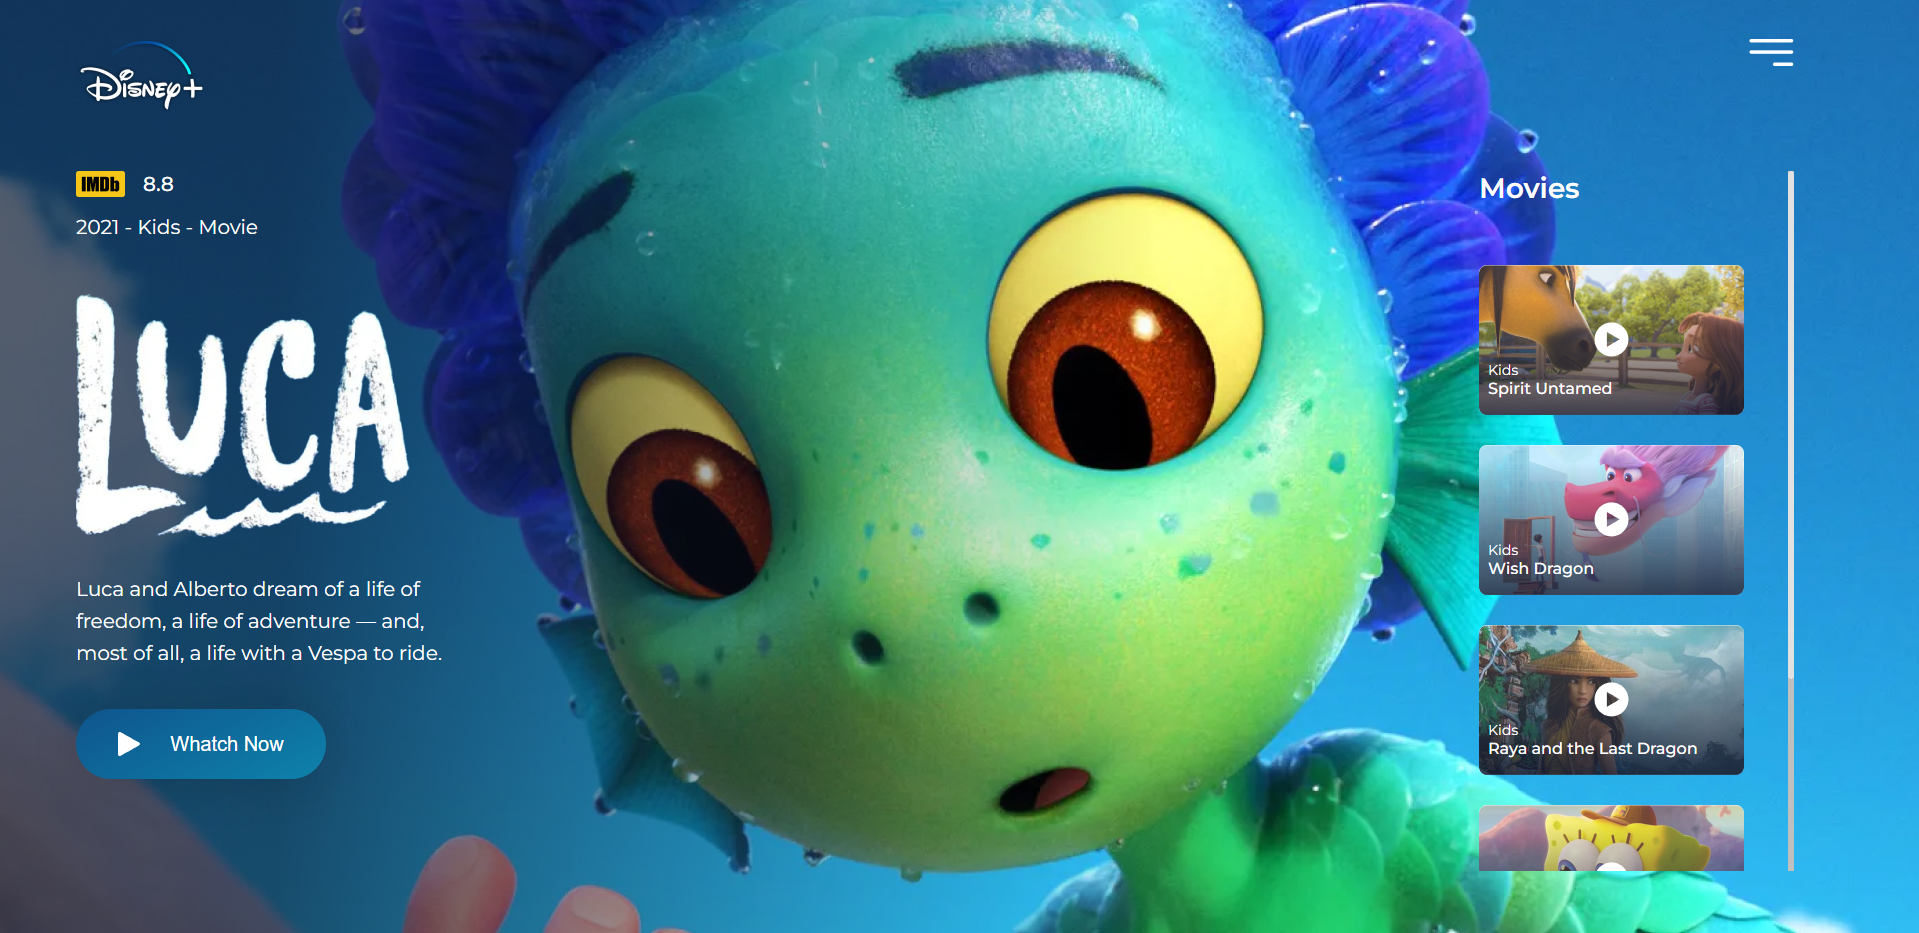
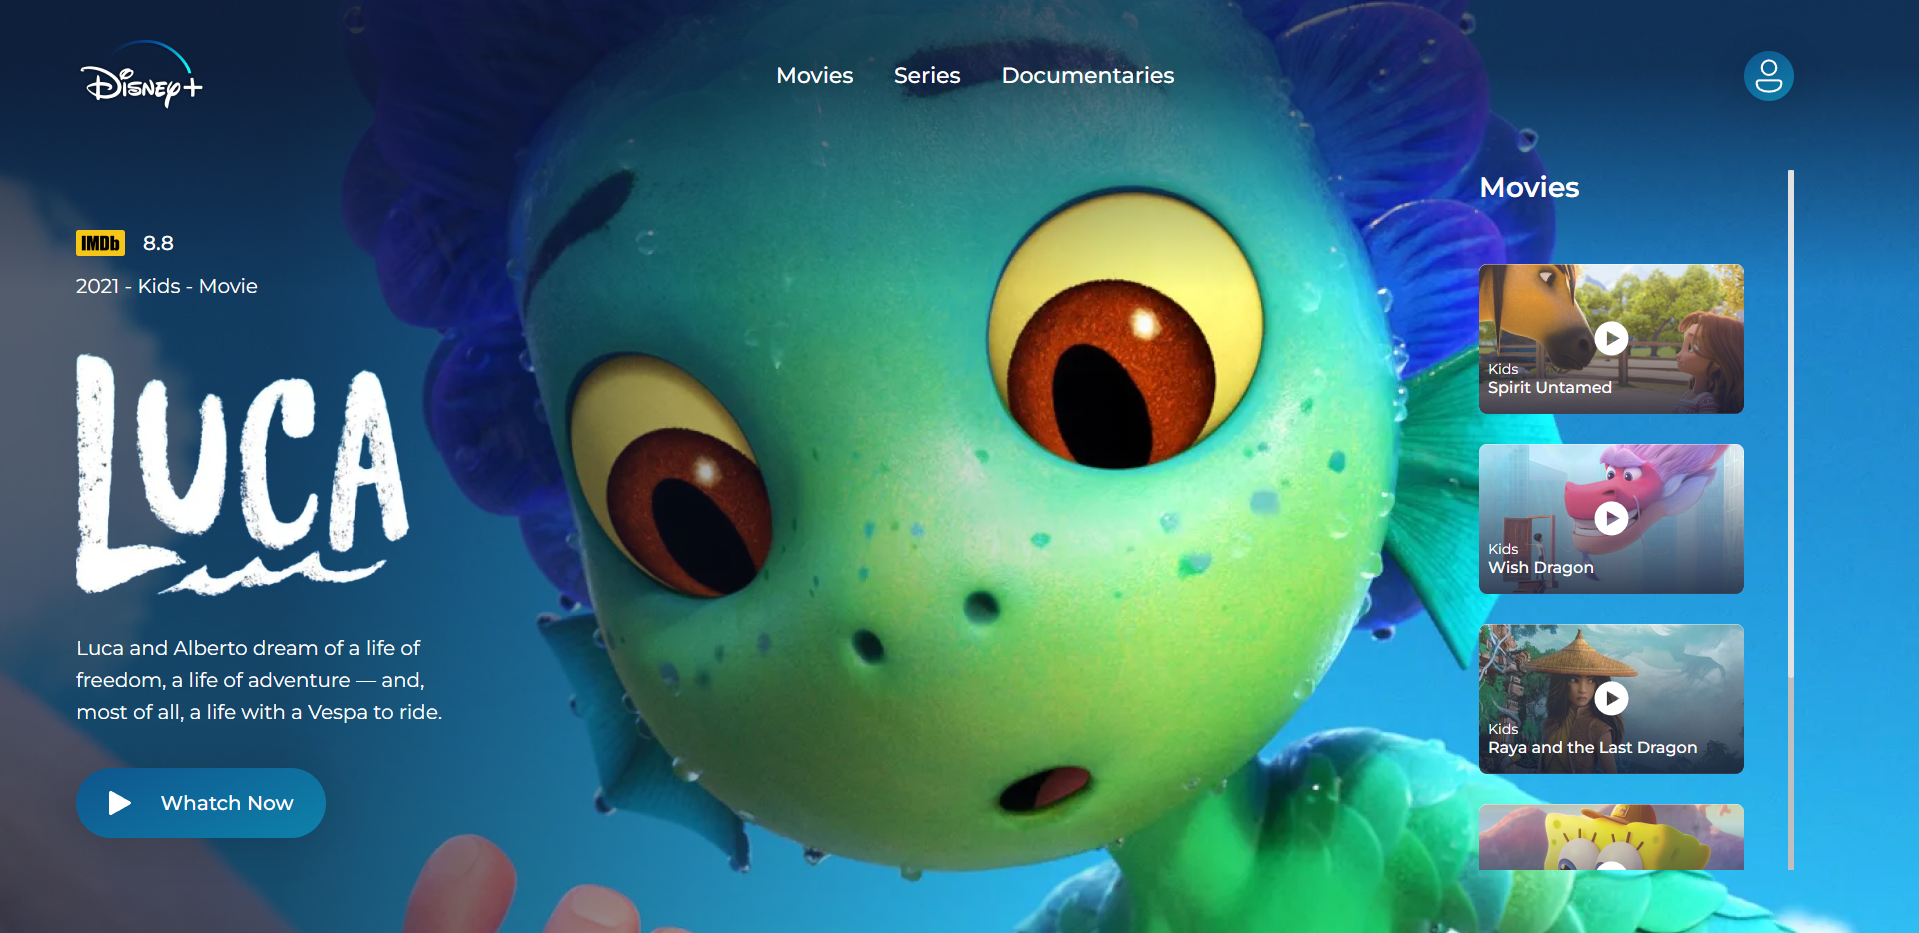
adicionando navbar

diff --git a/teste.css b/teste.css
@@ -19,64 +19,16 @@ body {
 header {
   display: flex;
   justify-content: space-between;
-  align-items: center;
 }
 
 header .logo img {
   width: 13rem;
   height: 7.4rem;
-  cursor: pointer;
 }
 
-li, a, button {
-  font-weight: 500;
-  font-size: 2.2rem;
-  color: #fff;
-  text-decoration: none;
-}
-
-.nav_links {
-  list-style: none;
-
-}
-
-.nav_links li {
-  display: inline-block;
-  padding: 0 2rem;
-}
-
-.nav_links li a{
-  transition: 0.2s;
-}
-
-.nav_links li a:hover::after{
-  position: absolute;
-  content: '';
-  display: flex;
-  width: 4rem;
-  height: 0.4rem;
-  background:#0cffff;
-}
-
-.account {
-  display: flex;
-  align-items: center;
-  justify-content: center;
-  width: 5rem;
-  height: 5rem;
-  border: none;
-  border-radius: 5rem;
-  background: linear-gradient(154.23deg, #0f3a7b -58.45%, #0cffff 374.49%);
-  box-shadow: 0px 3px 50px rgba(0, 0, 0, 0.160784);
-}
-
-.account img {
-  height: 80%;
-  width: 80%;
-}
-
-.account:hover {
-  background: transparent;
+header .menu img {
+  width: 4.6rem;
+  height: 2.7rem;
 }
 
 main {
@@ -85,8 +37,8 @@ main {
   justify-content: space-between;
 }
 
-.info {
-  padding-top: 6rem;
+section .info {
+  padding-top: 14.1rem;
 }
 
 .release {
@@ -139,11 +91,15 @@ main {
   color: #fff;
   gap: 3rem;
   text-decoration: none;
-  transition: 2s;
 }
 
 .button:hover {
   background: transparent;
+}
+
+section .movies {
+  display: flex;
+  flex-direction: column;
 }
 
 .movies {
@@ -207,11 +163,11 @@ section h2 {
   margin-right: 4.4rem;
   min-height: 15rem;
   cursor: pointer;
-  transition: 0.2s;
 }
 
 .movies-players:hover {
 border-left: 0.5rem solid #fff;
+
 }
 
 .thumbnail {

diff --git a/index.html b/index.html
@@ -20,9 +20,16 @@
         <img src="./img/logo.png" alt="Logo Disney Plus">
       </div>
 
-      <div class="menu">
-        <img src="./img/hamburguer-menu.svg" alt="Menu">
-      </div>
+      <nav>
+        <ul class="nav_links">
+          <li> <a href="#">Movies</a> </li>
+          <li> <a href="#">Series</a> </li>
+          <li> <a href="#">Documentaries</a> </li>        
+        </ul>
+      </nav>
+      <a href="#" class="account">
+        <img src="./img/person.svg" onmouseover="this.src='./img/person-hover.svg'" onmouseout="this.src='./img/person.svg'" alt="Botão account">
+      </a>
     </header>
 
     <main>
@@ -44,10 +51,10 @@
           </p>
         </div>
 
-        <button>
-          <img src="./img/play-icon.svg" alt="Botão com play">
+        <a href="#" class="button">
+          <img src="./img/play-icon.svg" onmouseover="this.src='./img/play-icon-hover.svg'" onmouseout="this.src='./img/play-icon.svg'" alt="Botão com play">
           Whatch Now
-        </button>
+        </a>
       </section>
 
       <section class="movies">
